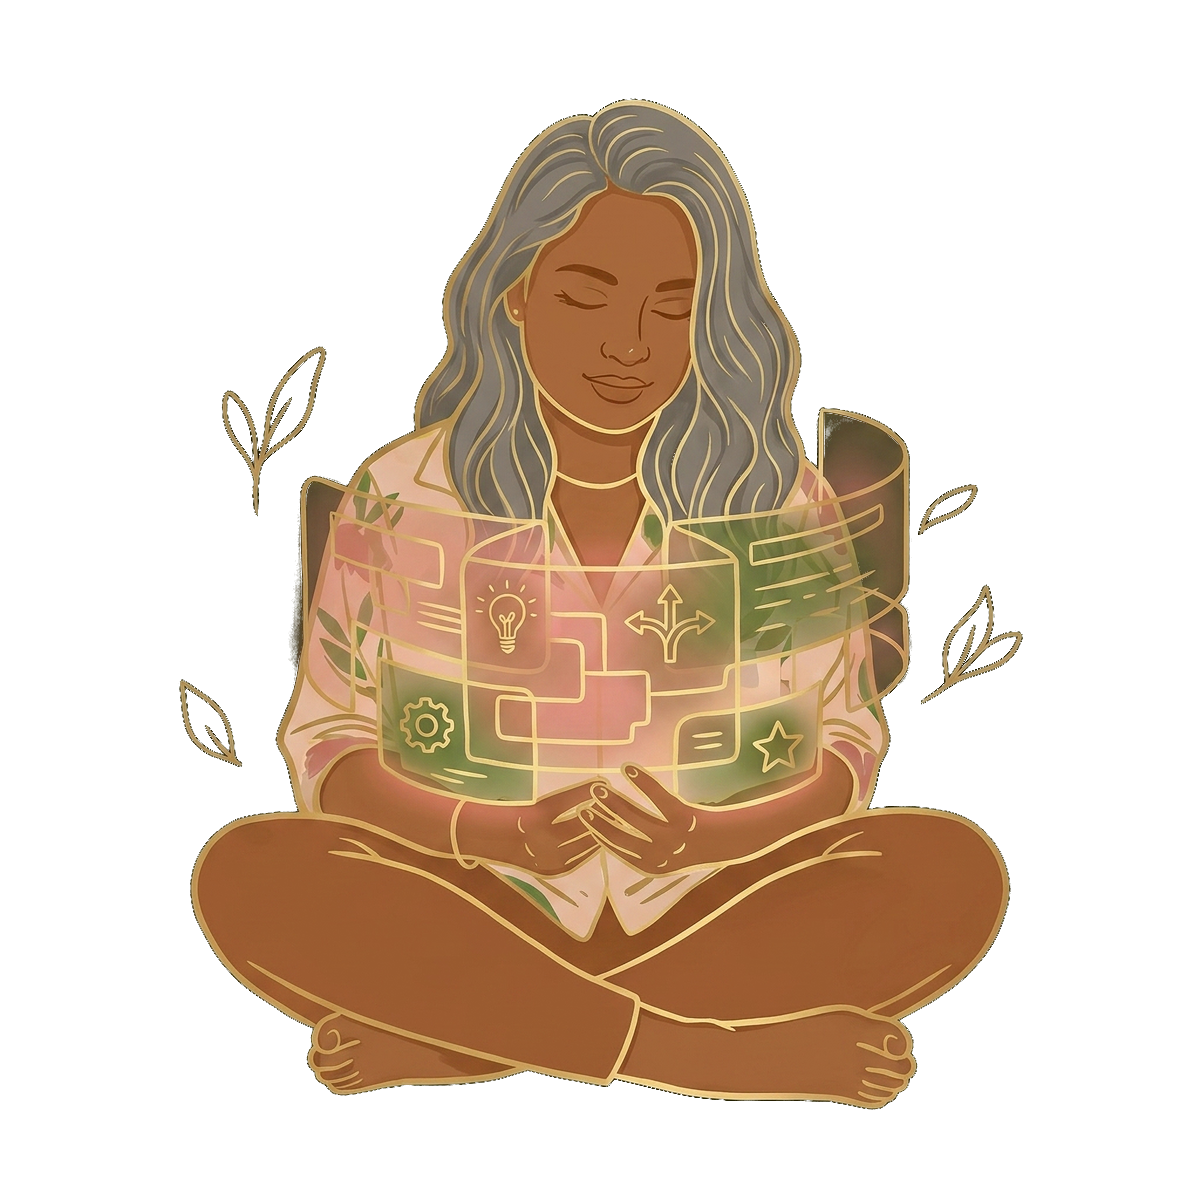
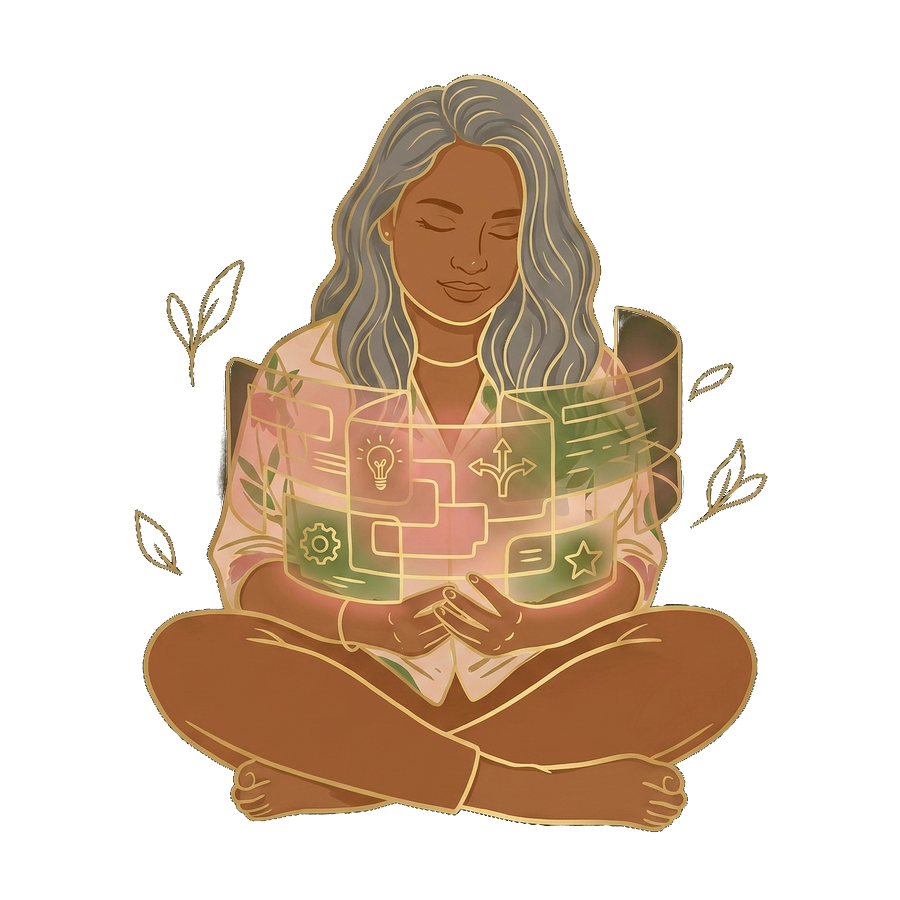
Batch of refinements pulled together: (1) optimize contact illustration — resize source 4096→900px, add WebP at 76KB via <picture> source with PNG fallback at 1MB, lazy/async + width/height to avoid layout shift; (2) Playground case study — soften harsh dark panels by retinting --bg-2/--bg-3/--borde

diff --git a/public/work/the-playground/index.html b/public/work/the-playground/index.html
@@ -11,13 +11,13 @@
   * { box-sizing: border-box; margin: 0; padding: 0; }
   :root {
     --bg: #2c3a22;
-    --bg-2: #111;
-    --bg-3: #161616;
-    --border: #222;
-    --border-2: #2a2a2a;
+    --bg-2: #1a2214;
+    --bg-3: #243018;
+    --border: #2f3d24;
+    --border-2: #3a4a2e;
     --fg: #ededed;
-    --fg-2: #a1a1a1;
-    --fg-3: #6b6b6b;
+    --fg-2: #a8b09e;
+    --fg-3: #7c8475;
     --accent: #00d26a;
     --accent-fg: #001a0d;
     --warn: #ff9f43;
@@ -138,8 +138,8 @@
   }
   h2.section-title .dim { color: var(--fg-3); }
   .section-lede {
-    color: var(--fg-2); font-size: 15px; max-width: 640px;
-    margin-bottom: 28px; line-height: 1.55;
+    color: var(--fg); font-size: 18px; max-width: 720px;
+    margin-bottom: 32px; line-height: 1.7;
   }
 
   /* ========== HERO ========== */
@@ -1533,10 +1533,10 @@
     font-weight: 600;
   }
   .tldr-body {
-    font-size: 15px; color: var(--fg); line-height: 1.55;
+    font-size: 20px; color: var(--fg); line-height: 1.65;
     font-family: var(--font-serif);
     font-style: italic;
-    max-width: 720px;
+    max-width: 760px;
   }
   .tldr-body strong {
     font-family: var(--font-sans);
@@ -1843,10 +1843,10 @@
 
   /* ========== WHAT'S NEXT ========== */
   .next-list {
-    display: grid; gap: 10px; max-width: 900px;
+    display: grid; gap: 12px;
   }
   .next-item {
-    display: flex; gap: 16px; padding: 14px 18px;
+    display: flex; gap: 18px; padding: 18px 22px;
     background: var(--bg-2); border: 1px solid var(--border);
     border-radius: 8px;
   }
@@ -1855,6 +1855,7 @@
     text-transform: uppercase; letter-spacing: 0.08em;
     padding: 3px 8px; border-radius: 4px;
     height: fit-content; flex-shrink: 0;
+    margin-top: 4px;
   }
   .next-status.soon {
     background: color-mix(in oklch, var(--accent) 14%, transparent);
@@ -1865,9 +1866,9 @@
     background: var(--bg-3); color: var(--fg-2);
     border: 1px solid var(--border);
   }
-  .next-title { font-size: 15px; font-weight: 500; margin-bottom: 2px; }
+  .next-title { font-size: 17px; font-weight: 600; margin-bottom: 4px; }
   .next-body { flex: 1; }
-  .next-desc { font-size: 13px; color: var(--fg-2); line-height: 1.5; }
+  .next-desc { font-size: 15px; color: var(--fg-2); line-height: 1.65; }
 
   /* ========== CLOSE ========== */
   .close-box {
@@ -1891,8 +1892,8 @@
   }
   .close-box .italic { font-style: italic; font-weight: 400; font-family: var(--font-serif); }
   .close-box p {
-    color: var(--fg-2); font-size: 15px; max-width: 520px;
-    margin: 0 auto 22px; line-height: 1.55;
+    color: var(--fg); font-size: 17px; max-width: 580px;
+    margin: 0 auto 24px; line-height: 1.7;
   }
   .close-box .byline-big {
     font-family: var(--font-mono); font-size: 12px;
